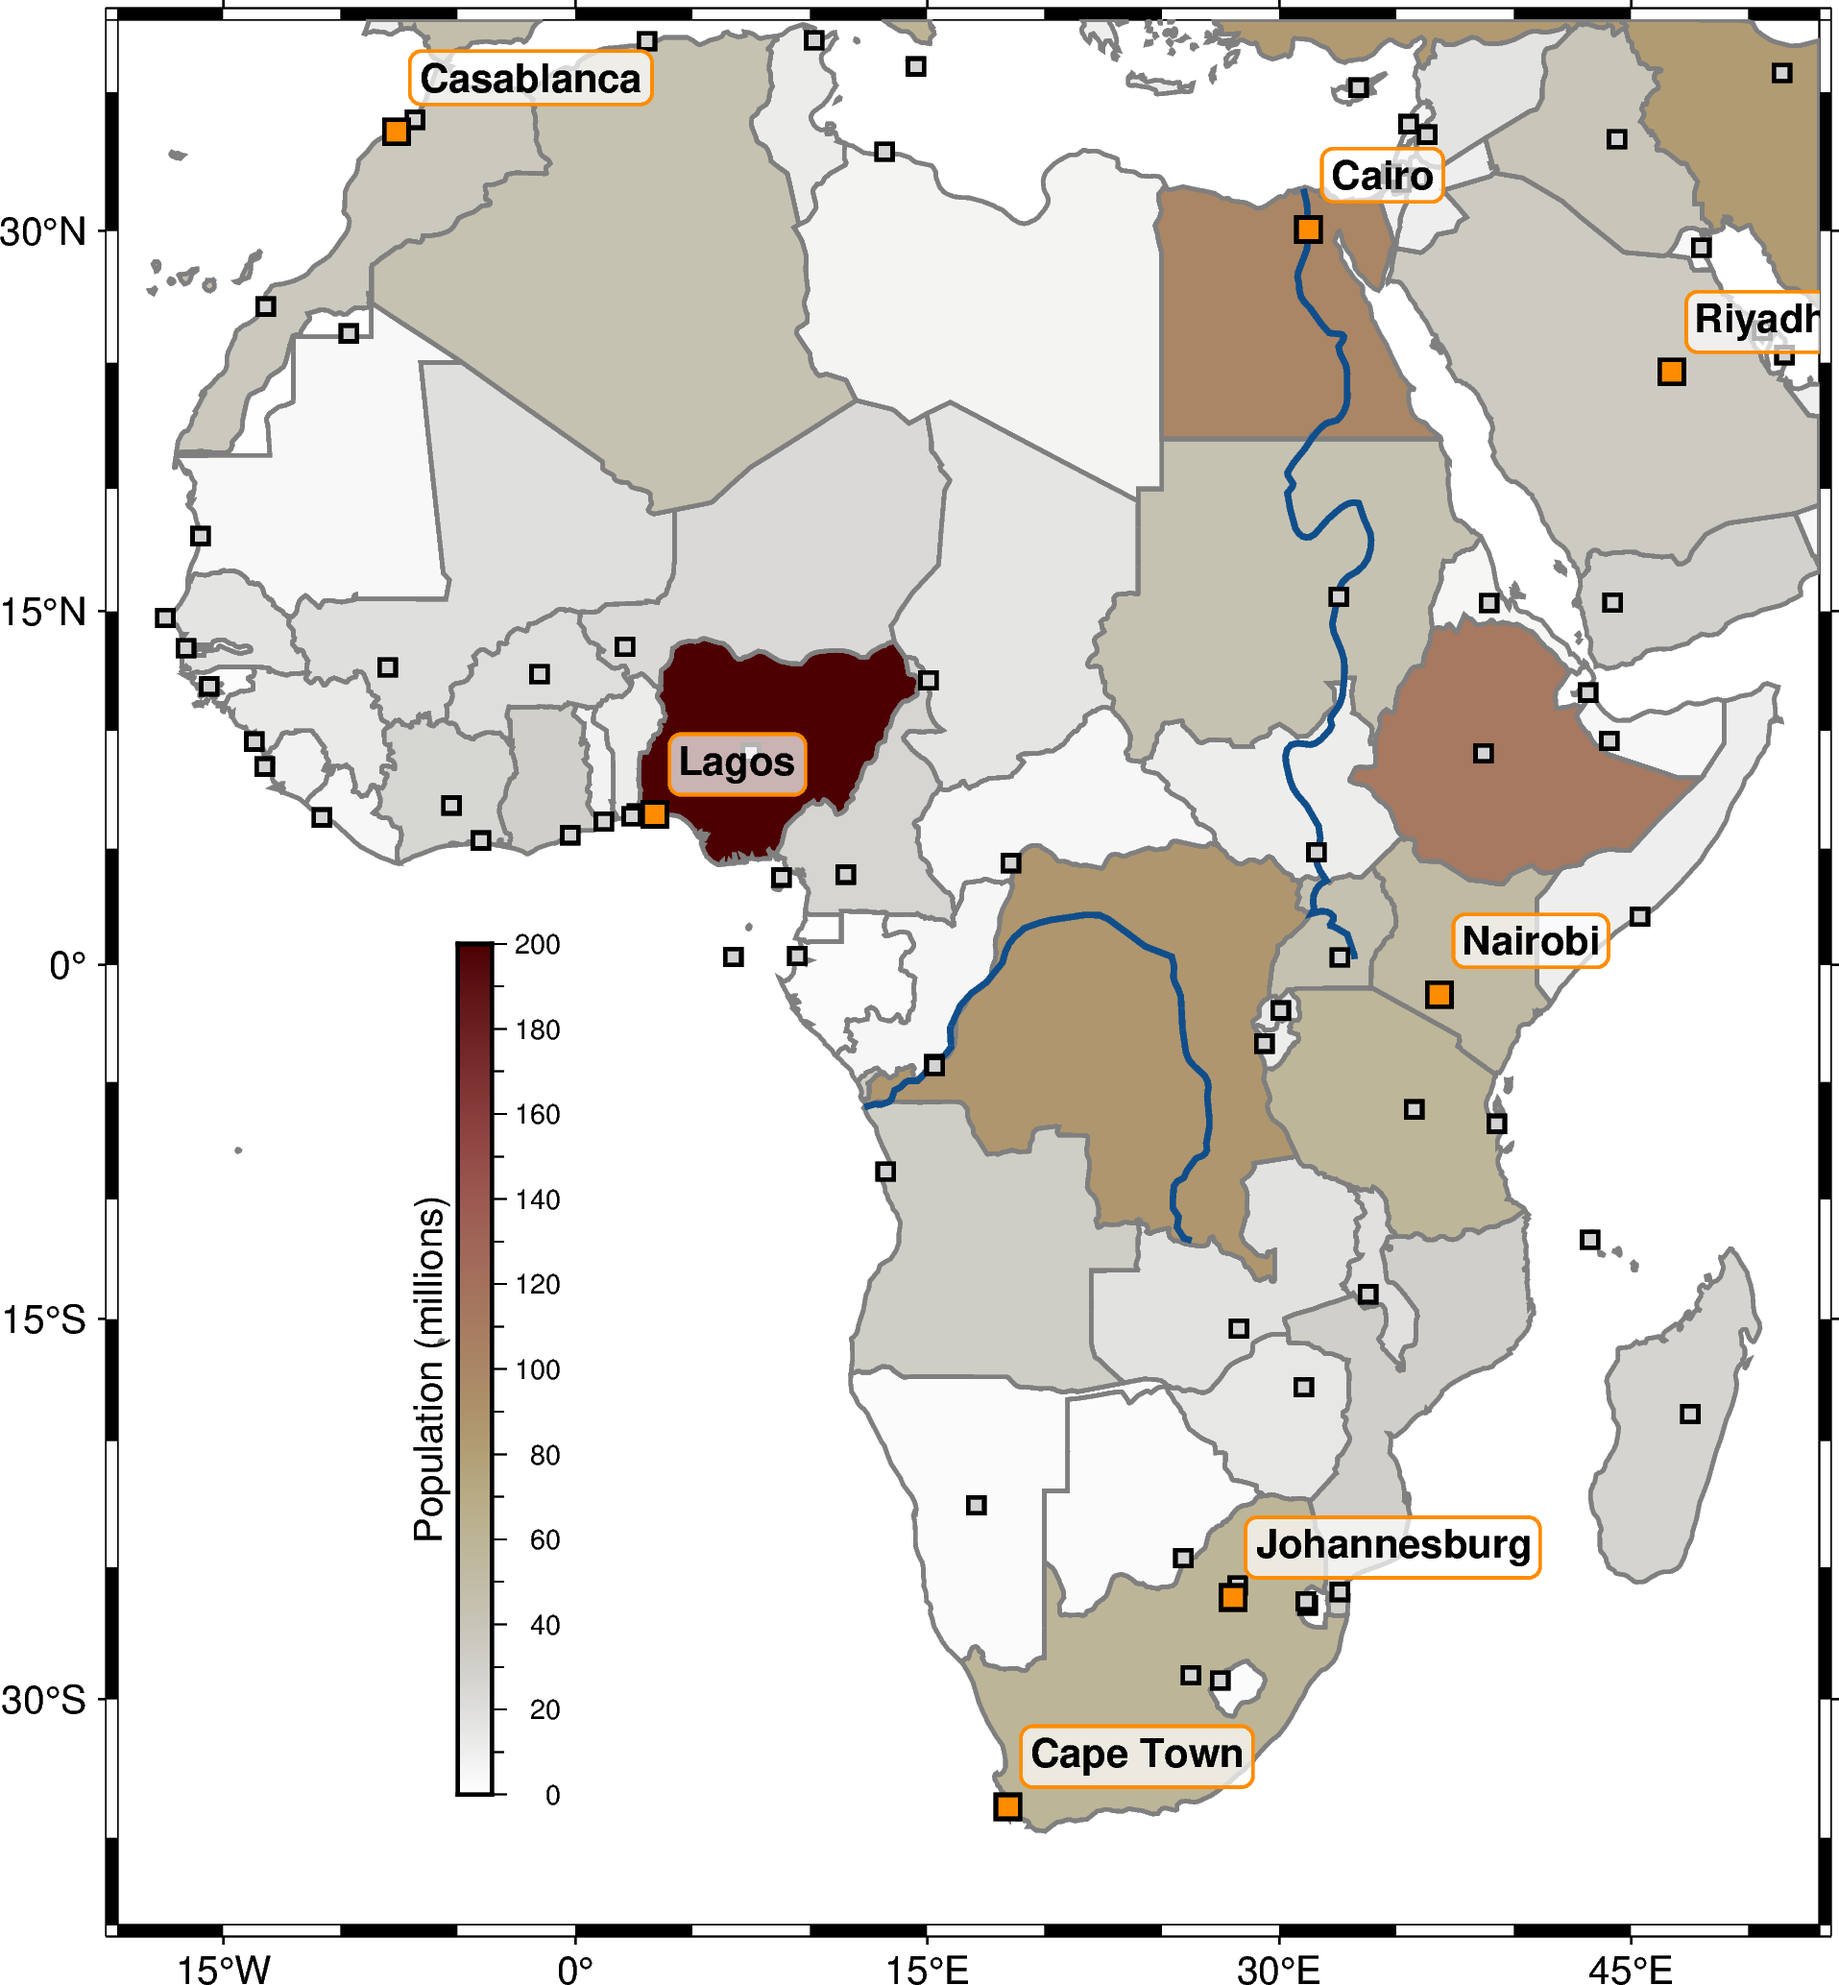
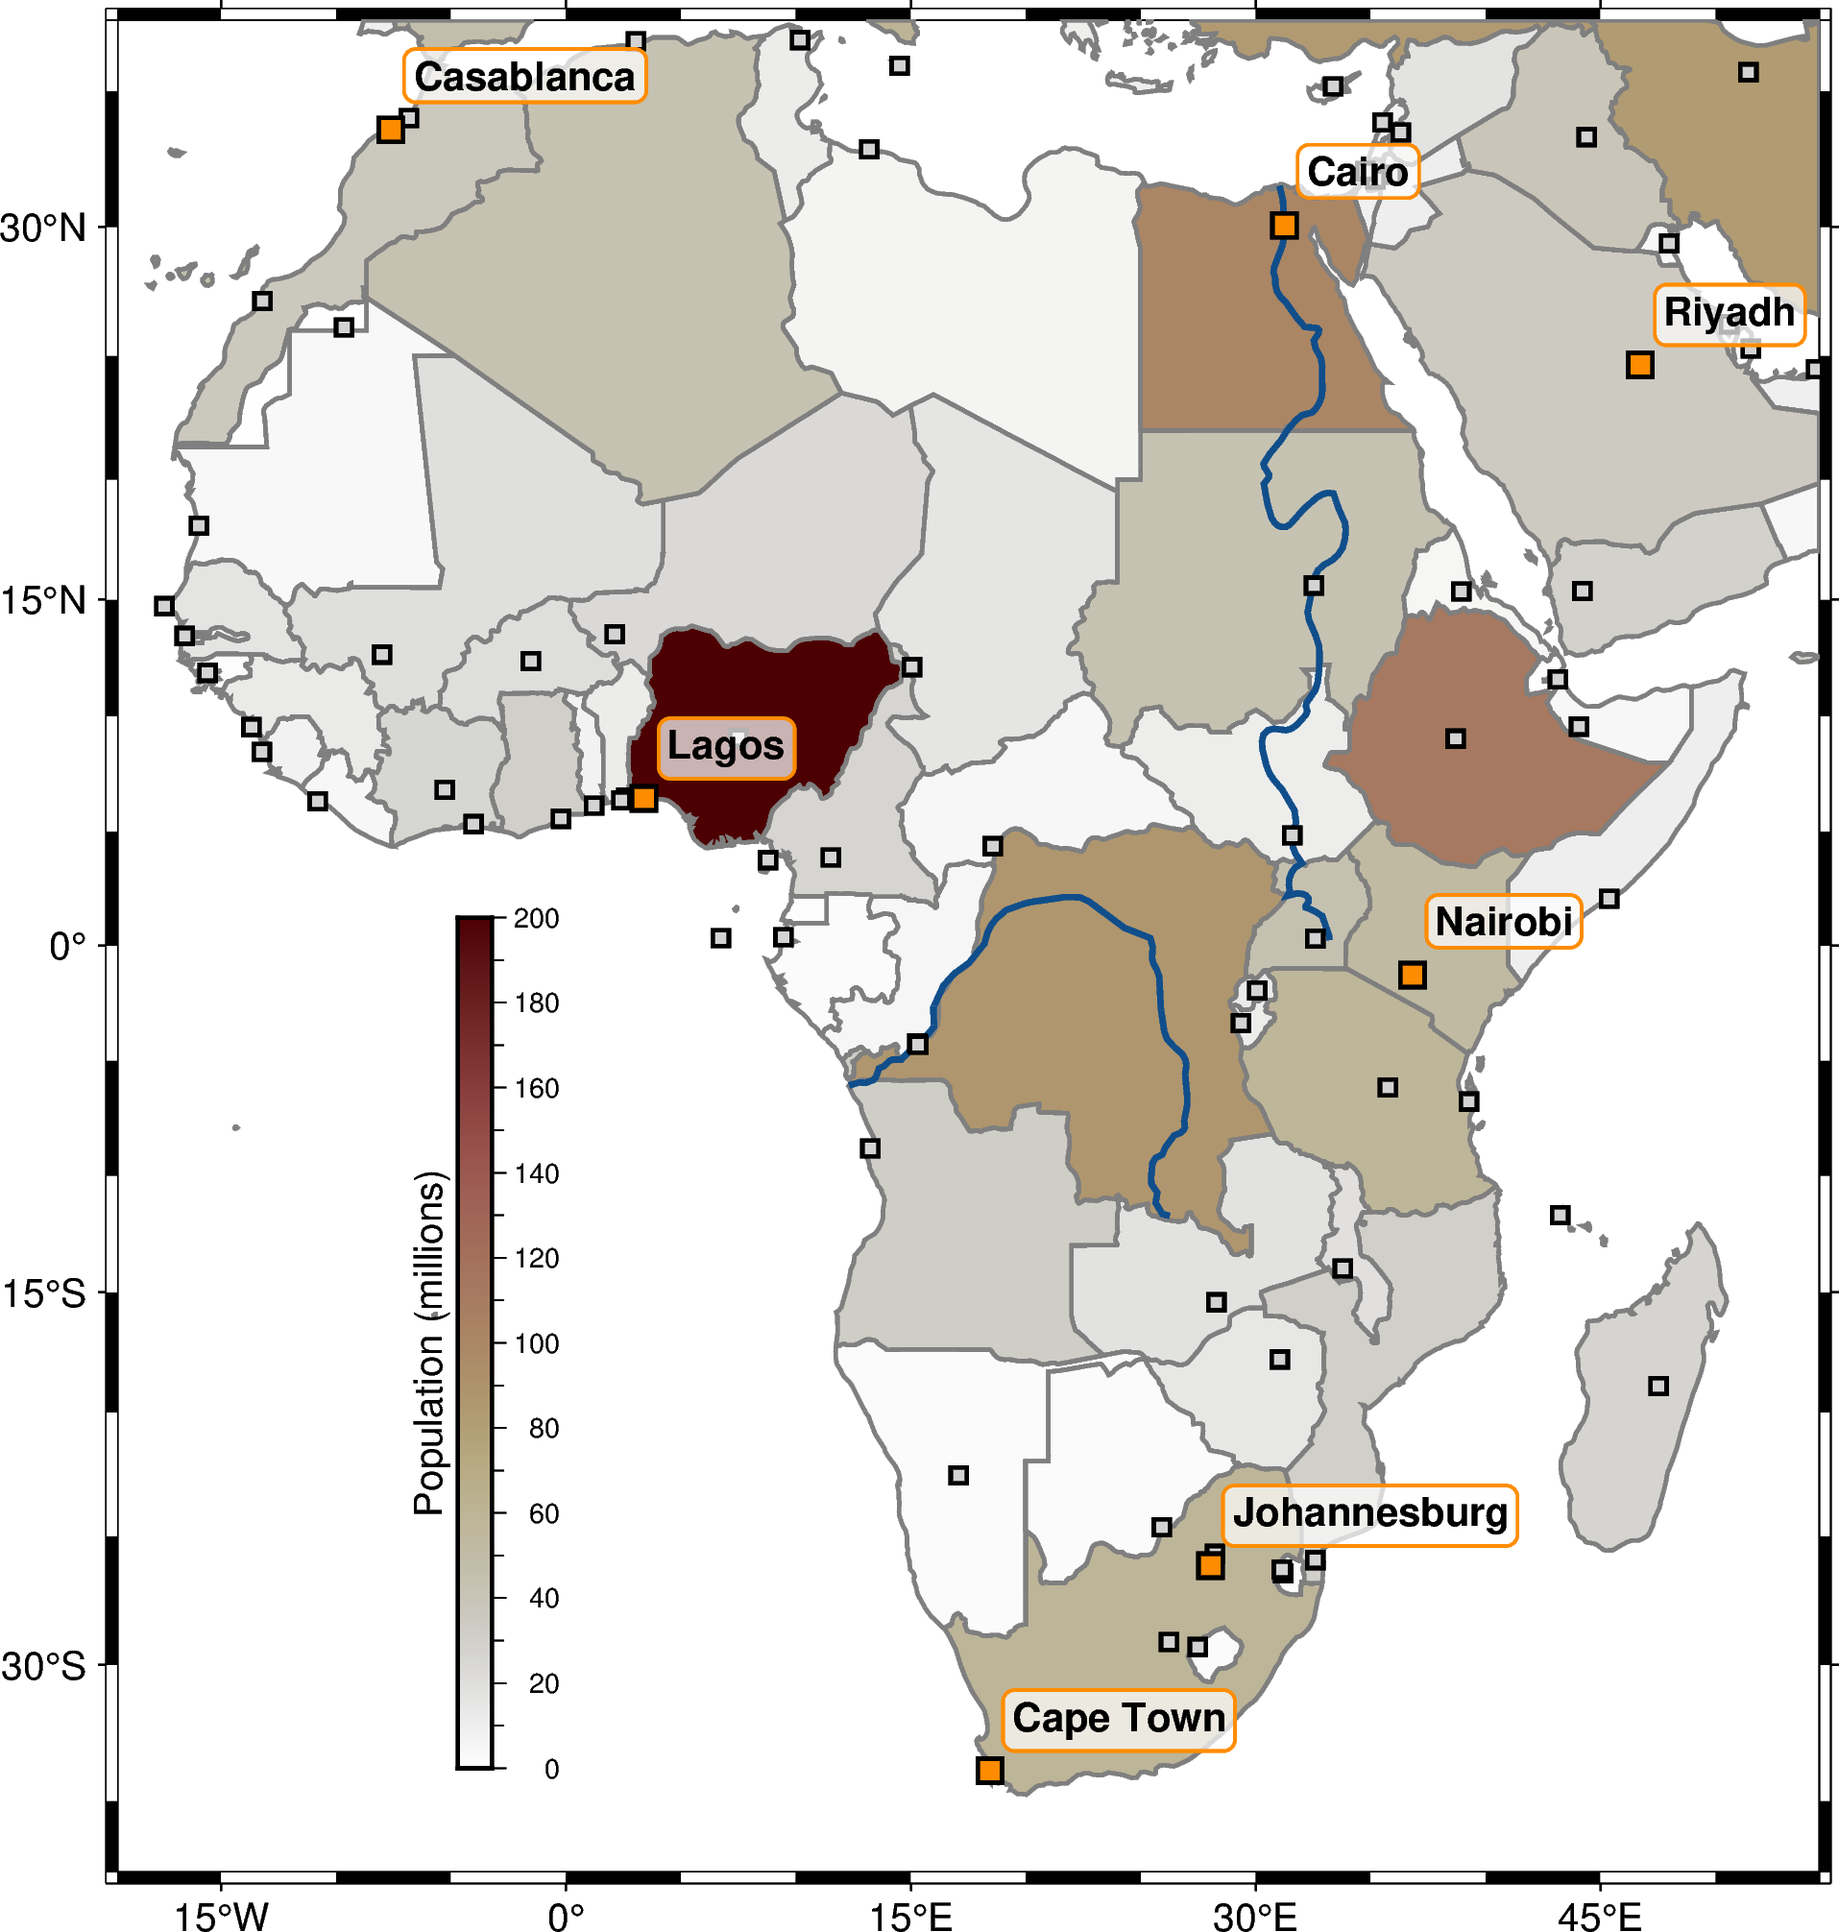
Adjust region

diff --git a/Fig6_PyGMT_geopandas.py b/Fig6_PyGMT_geopandas.py
@@ -10,7 +10,7 @@ cities_small = cities[cities["worldcity"] != 1].copy()  # Smaller cities
 cities_world = cities[cities["worldcity"] == 1].copy()  # Larger (world) cities
 
 fig = pygmt.Figure()
-fig.basemap(region=[-19.5, 53, -38, 37.5], projection="M15c", frame=True)
+fig.basemap(region=[-19.5, 54.5, -37.5, 37.5], projection="M15c", frame=True)
 
 pygmt.makecpt(cmap="bilbao", series=(0, 200))
 fig.plot(data=world[["geometry", "POP_EST"]], pen="1p,gray50", fill="+z", cmap=True, aspatial="Z=POP_EST")
